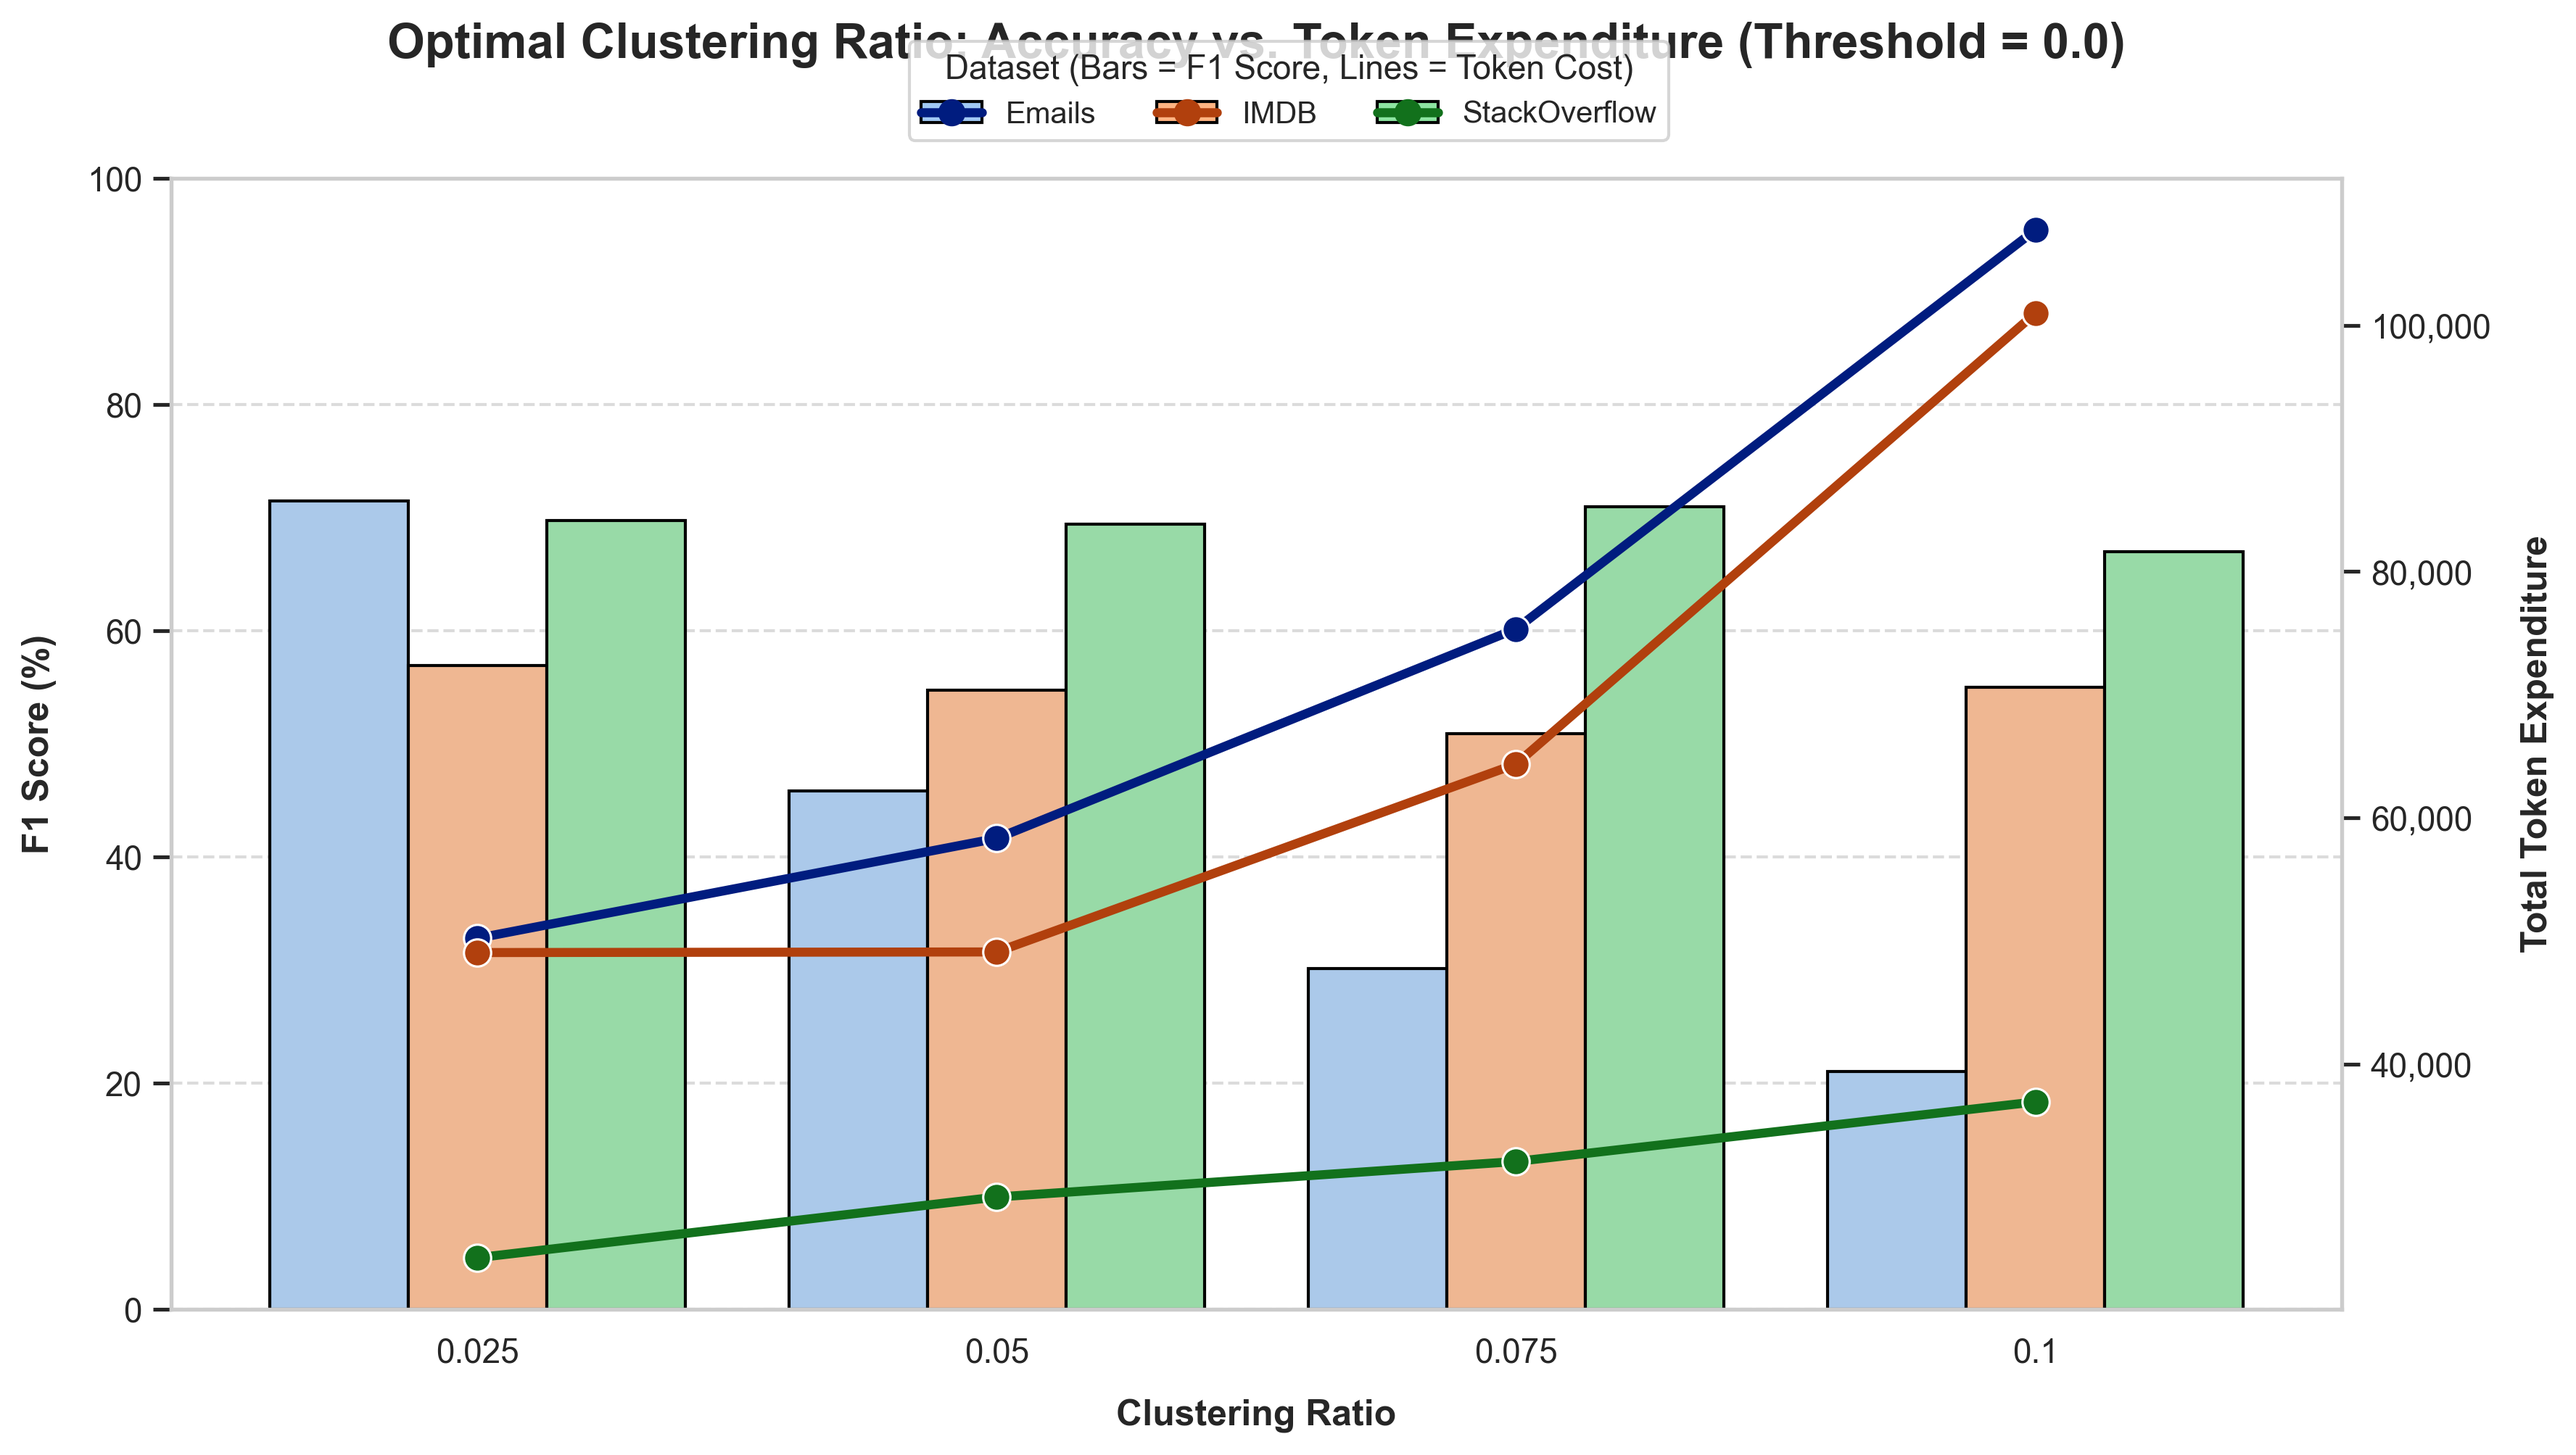
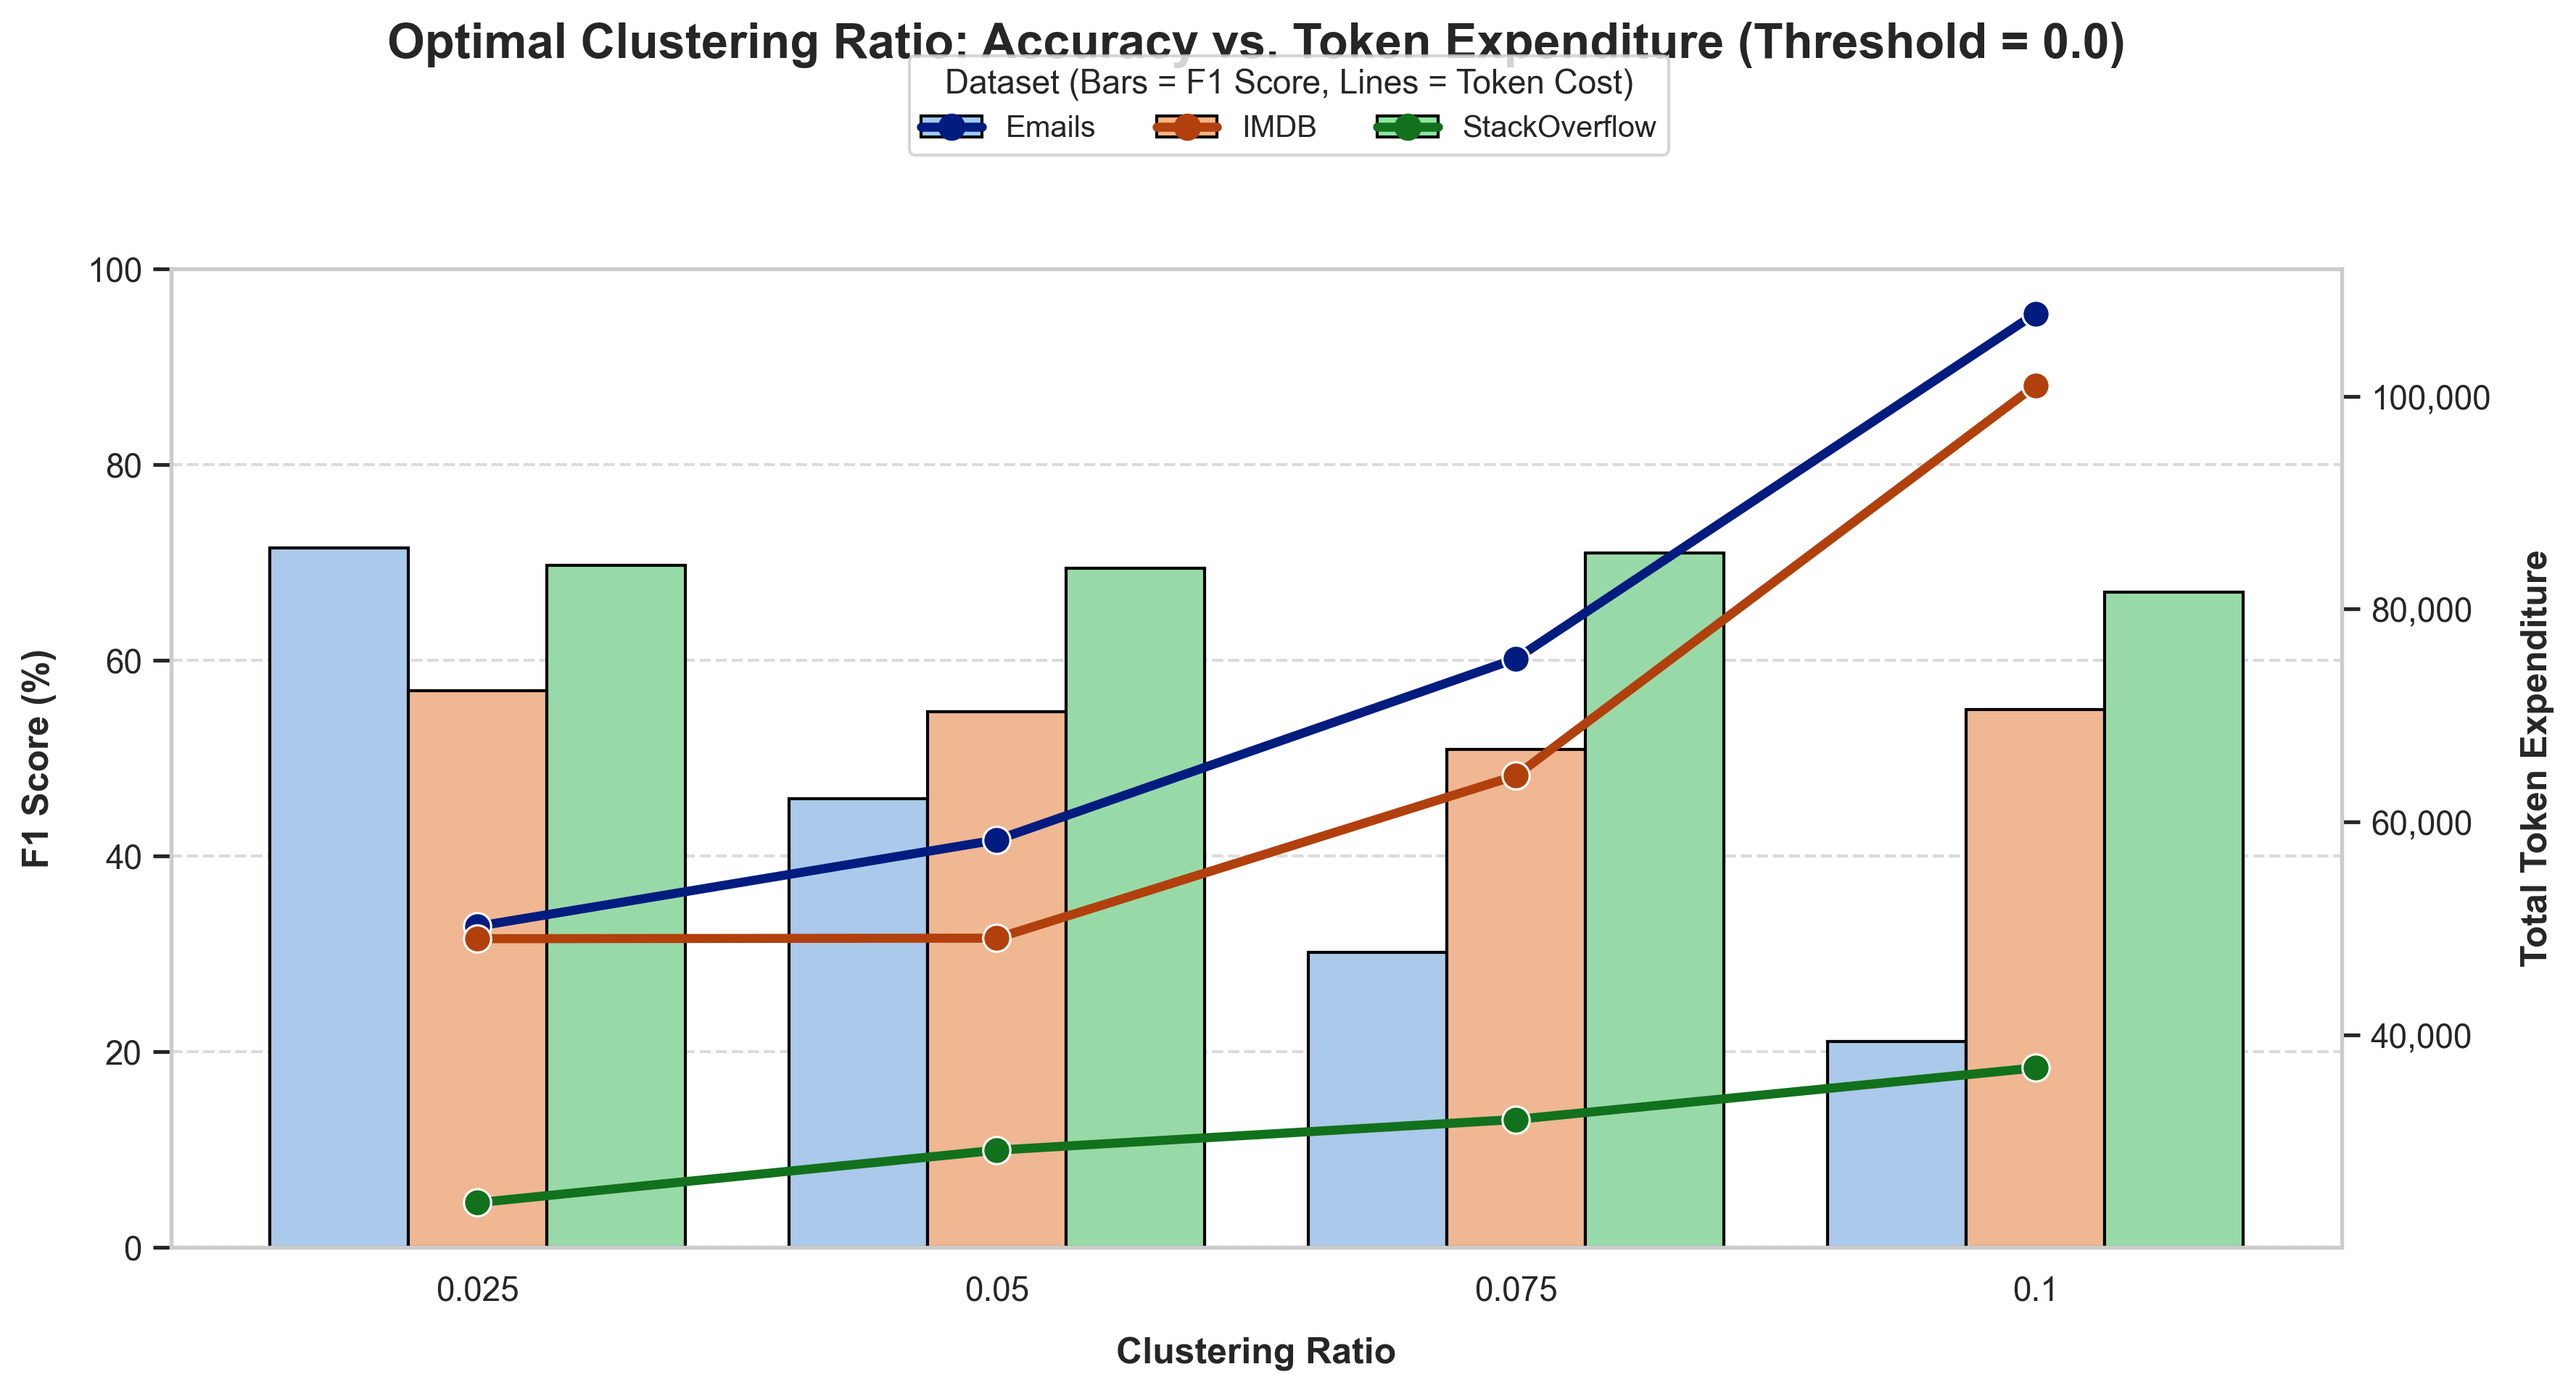
more visuals

diff --git a/src/figures/classifier_visualization.py b/src/figures/classifier_visualization.py
@@ -1,0 +1,118 @@
+import pandas as pd
+import matplotlib.pyplot as plt
+import seaborn as sns
+import os
+import matplotlib.ticker as ticker
+
+# Ensure output directory exists
+os.makedirs('src/figures', exist_ok=True)
+sns.set_theme(style="whitegrid", palette="muted")
+
+# ==========================================
+# 1. Load Data
+# ==========================================
+# A. Block Data (IMDB, Block_10_Full)
+block_df = pd.read_csv('src/results/baseline_block.csv')
+imdb_block = block_df[(block_df['Dataset'] == 'IMDB') & (block_df['Baseline_Type'] == 'Block_10_Full')]
+block_f1 = imdb_block['F1'].mean()
+block_tokens = imdb_block['Tokens'].mean()
+
+# B. Cluster Data (IMDB, Ratio 0.025, Thresh 0.05 without projection)
+cluster_df = pd.read_csv('src/results/imdb_aggregated_results.csv')
+imdb_cluster = cluster_df[(cluster_df['Ratio'] == 0.025) & ((cluster_df['Threshold'] - 0.05).abs() < 0.001)].iloc[0]
+cluster_f1 = imdb_cluster['F1 (%)']
+cluster_tokens = imdb_cluster['Total Tokens']
+
+# C. Classifier Data (IMDB)
+class_df = pd.read_csv('src/results/cluster_join_imdb_classification.csv')
+imdb_class = class_df[class_df['Baseline_Type'] == 'Classifier_Join'].iloc[0]
+class_f1 = imdb_class['F1']
+class_tokens = imdb_class['Tokens']
+
+# Combine
+plot_data = [
+    {'Method': 'Block Join\n(Size=10)', 'F1 Score (%)': block_f1, 'Total Tokens': block_tokens},
+    {'Method': 'Optimal Semantic\nJoin', 'F1 Score (%)': cluster_f1, 'Total Tokens': cluster_tokens},
+    {'Method': 'Classifier Join', 'F1 Score (%)': class_f1, 'Total Tokens': class_tokens}
+]
+plot_df = pd.DataFrame(plot_data)
+
+# ==========================================
+# 2. Setup Plot (1x2 Subplots)
+# ==========================================
+fig, axes = plt.subplots(1, 2, figsize=(14, 6))
+
+palette = sns.color_palette("Set2", 3)
+
+# ---------------------------
+# Panel A: F1 Score
+# ---------------------------
+sns.barplot(
+    data=plot_df, 
+    x='Method', 
+    y='F1 Score (%)', 
+    ax=axes[0], 
+    palette=palette, 
+    edgecolor='black',
+    hue='Method',
+    dodge=False
+)
+axes[0].set_ylim(0, 100)
+axes[0].set_title('Accuracy (F1 Score)', fontsize=14, fontweight='bold', pad=15)
+axes[0].set_ylabel('F1 Score (%)', fontsize=12, fontweight='bold')
+axes[0].set_xlabel('')
+
+# Annotate bars
+for p in axes[0].patches:
+    height = p.get_height()
+    if height > 0:
+        axes[0].annotate(f"{height:.1f}%", 
+                    (p.get_x() + p.get_width() / 2., height), 
+                    ha='center', va='bottom', xytext=(0, 5), 
+                    textcoords='offset points', fontweight='bold', fontsize=11)
+
+if axes[0].legend_ is not None:
+    axes[0].legend_.remove()
+
+# ---------------------------
+# Panel B: Token Expenditure
+# ---------------------------
+sns.barplot(
+    data=plot_df, 
+    x='Method', 
+    y='Total Tokens', 
+    ax=axes[1], 
+    palette=palette, 
+    edgecolor='black',
+    hue='Method',
+    dodge=False
+)
+axes[1].set_title('Token Expenditure', fontsize=14, fontweight='bold', pad=15)
+axes[1].set_ylabel('Total Tokens', fontsize=12, fontweight='bold')
+axes[1].set_xlabel('')
+axes[1].yaxis.set_major_formatter(ticker.FuncFormatter(lambda x, p: format(int(x), ',')))
+
+# Add headroom for labels
+axes[1].set_ylim(0, plot_df['Total Tokens'].max() * 1.15)
+
+# Annotate bars
+for p in axes[1].patches:
+    height = p.get_height()
+    if height > 0:
+        axes[1].annotate(f"{int(height):,}", 
+                    (p.get_x() + p.get_width() / 2., height), 
+                    ha='center', va='bottom', xytext=(0, 5), 
+                    textcoords='offset points', fontweight='bold', fontsize=11)
+
+if axes[1].legend_ is not None:
+    axes[1].legend_.remove()
+
+# ==========================================
+# 3. Formatting and Export
+# ==========================================
+plt.suptitle('IMDB Dataset: Join Strategy Comparison', fontsize=18, fontweight='bold', y=1.05)
+plt.tight_layout()
+
+filepath = 'src/figures/imdb_classifier_comparison_subplots.png'
+plt.savefig(filepath, dpi=300, bbox_inches='tight')
+print(f"Successfully generated: {filepath}")

diff --git a/src/figures/ratio_visualization.py b/src/figures/ratio_visualization.py
@@ -1,0 +1,121 @@
+import pandas as pd
+import matplotlib.pyplot as plt
+import seaborn as sns
+import os
+import matplotlib.ticker as ticker
+import matplotlib.patches as mpatches
+import matplotlib.lines as mlines
+
+# Ensure output directory exists
+os.makedirs('src/figures', exist_ok=True)
+sns.set_theme(style="whitegrid", palette="muted")
+
+# ==========================================
+# 1. Load Data
+# ==========================================
+datasets = {
+    'Emails': 'src/results/emails_aggregated_results.csv',
+    'StackOverflow': 'src/results/stackoverflow_no_desc_aggregated_results.csv',
+    'IMDB': 'src/results/imdb_aggregated_results.csv'
+}
+
+dfs = []
+for name, filename in datasets.items():
+    if os.path.exists(filename):
+        df = pd.read_csv(filename)
+        df = df[df['Threshold'] == 0.0].copy()
+        df['Dataset'] = name
+        dfs.append(df)
+    else:
+        print(f"Warning: Could not find {filename}")
+
+combined_df = pd.concat(dfs, ignore_index=True)
+
+# Sort and format Ratio for X-axis
+combined_df = combined_df.sort_values(['Ratio', 'Dataset'])
+combined_df['Ratio_Str'] = combined_df['Ratio'].astype(str)
+
+# ==========================================
+# 2. Setup Plot
+# ==========================================
+fig, ax1 = plt.subplots(figsize=(12, 7))
+
+datasets_list = sorted(combined_df['Dataset'].unique())
+bar_palette = sns.color_palette("pastel", len(datasets_list))
+line_palette = sns.color_palette("dark", len(datasets_list))
+
+# Plot Bars (F1 Score) on primary y-axis
+sns.barplot(
+    data=combined_df,
+    x='Ratio_Str',
+    y='F1 (%)',
+    hue='Dataset',
+    ax=ax1,
+    palette=bar_palette,
+    edgecolor='black'
+)
+
+# Configure primary y-axis (F1 Score)
+ax1.set_xlabel('Clustering Ratio', fontsize=12, fontweight='bold', labelpad=10)
+ax1.set_ylabel('F1 Score (%)', fontsize=12, fontweight='bold', labelpad=10)
+ax1.set_ylim(0, 100)
+ax1.grid(axis='y', linestyle='--', alpha=0.7)
+
+# Create twin axis for Tokens
+ax2 = ax1.twinx()
+
+# Plot Lines (Tokens) on secondary y-axis
+sns.lineplot(
+    data=combined_df,
+    x='Ratio_Str',
+    y='Total Tokens',
+    hue='Dataset',
+    ax=ax2,
+    palette=line_palette,
+    marker='o',
+    linewidth=3,
+    markersize=9,
+    legend=False
+)
+
+# Configure secondary y-axis (Tokens)
+ax2.set_ylabel('Total Token Expenditure', fontsize=12, fontweight='bold', labelpad=10)
+ax2.yaxis.set_major_formatter(ticker.FuncFormatter(lambda x, p: format(int(x), ',')))
+ax2.grid(False)
+
+# ==========================================
+# 3. Custom Unified Legend
+# ==========================================
+if ax1.legend_ is not None:
+    ax1.legend_.remove() 
+
+custom_handles = []
+for i, dataset in enumerate(datasets_list):
+    bar_patch = mpatches.Patch(facecolor=bar_palette[i], edgecolor='black')
+    line_marker = mlines.Line2D([], [], color=line_palette[i], marker='o', markersize=8, linewidth=3)
+    custom_handles.append((bar_patch, line_marker))
+
+fig.legend(
+    handles=custom_handles, 
+    labels=datasets_list, 
+    loc='upper center', 
+    bbox_to_anchor=(0.5, 0.90), # Lowered from 0.95
+    ncol=3, 
+    title='Dataset (Bars = F1 Score, Lines = Token Cost)', 
+    title_fontsize='11', 
+    fontsize='10',
+    frameon=True
+)
+
+# Title and Layout Adjustments
+# Increased pad from 40 to 70 to push the title above the legend
+plt.title('Optimal Clustering Ratio: Accuracy vs. Token Expenditure (Threshold = 0.0)', fontsize=16, fontweight='bold', pad=70)
+
+plt.tight_layout()
+
+# Squished the top of the plot down to 0.75 (from 0.85) to make room
+plt.subplots_adjust(top=0.75) 
+
+filepath = 'src/figures/ratio_optimization_combo.png'
+plt.savefig(filepath, dpi=300, bbox_inches='tight')
+print(f"Successfully generated: {filepath}")
